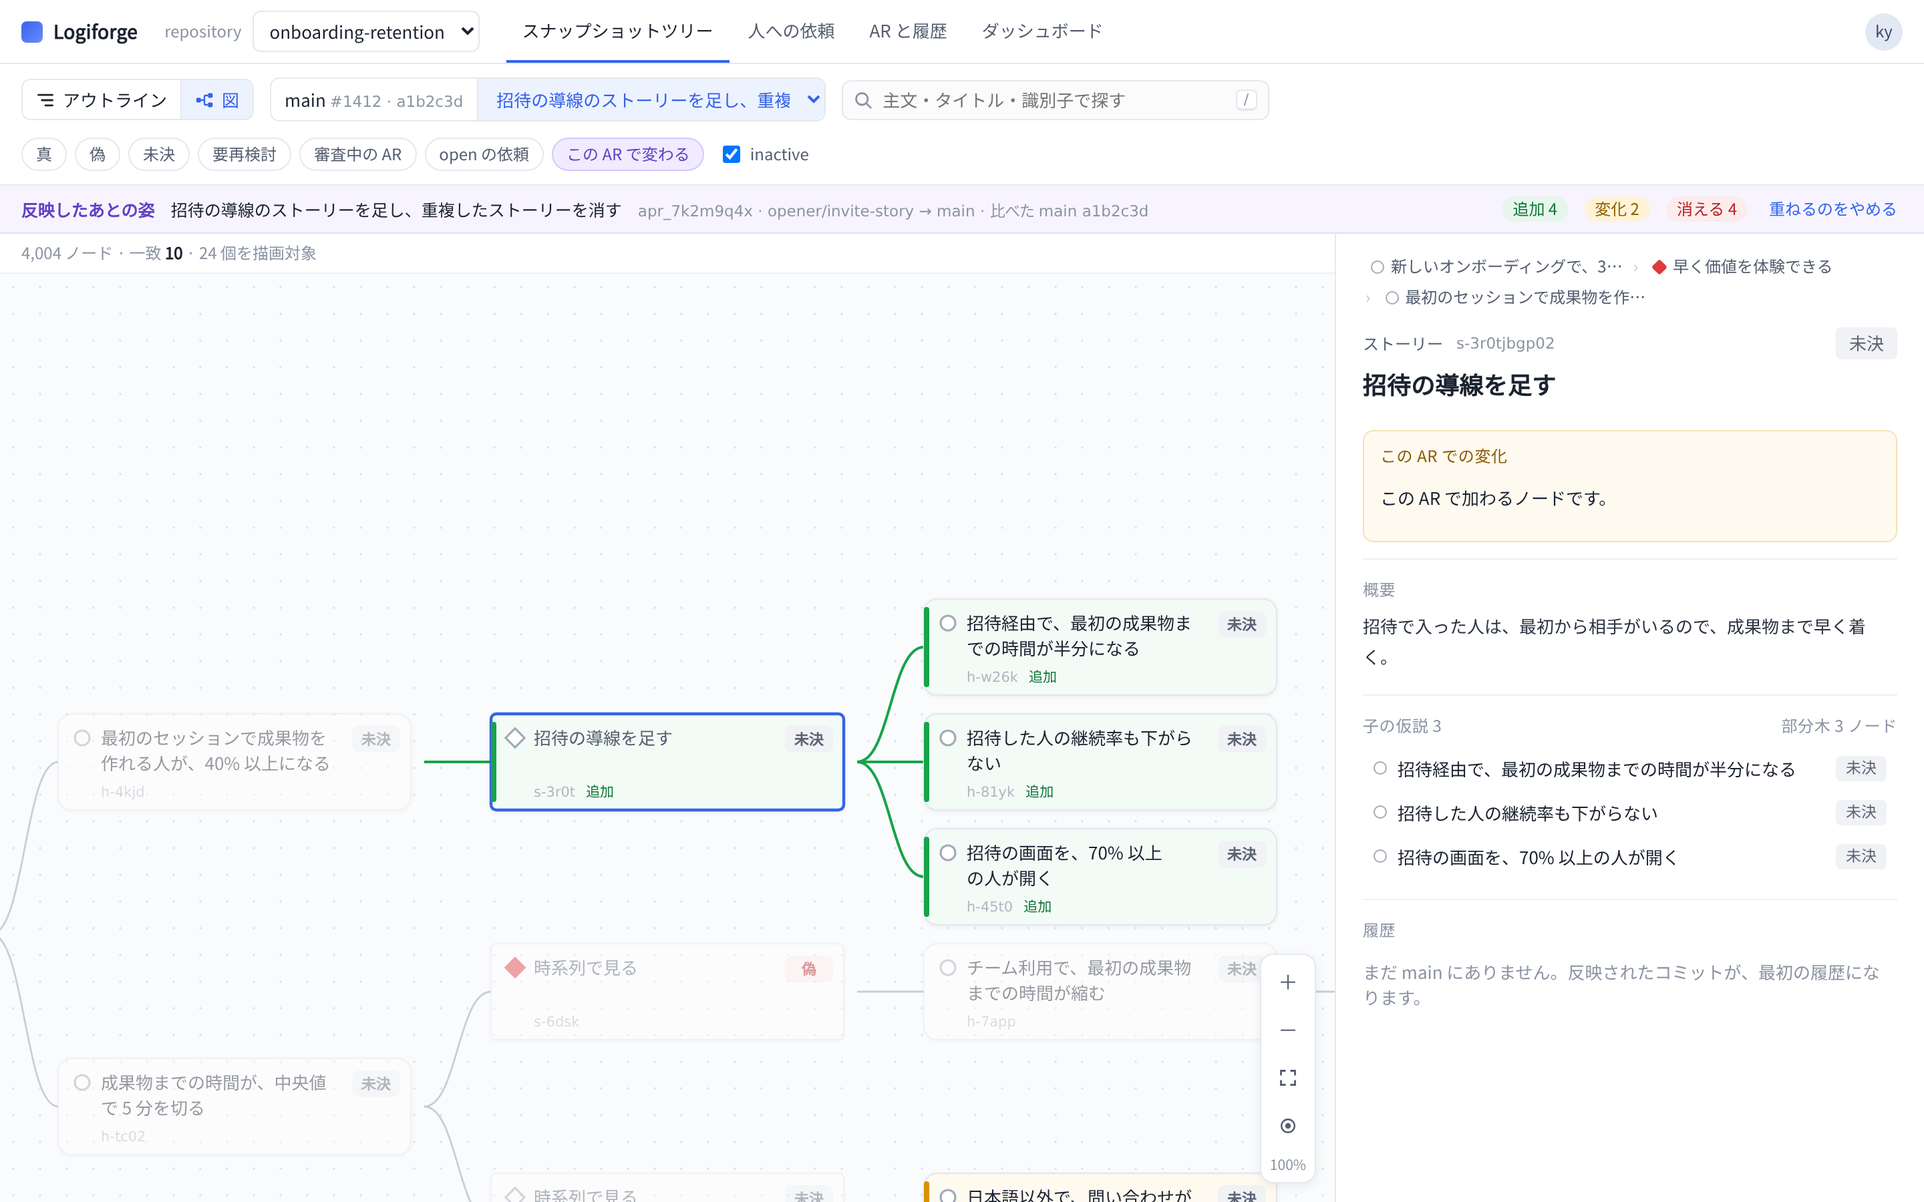
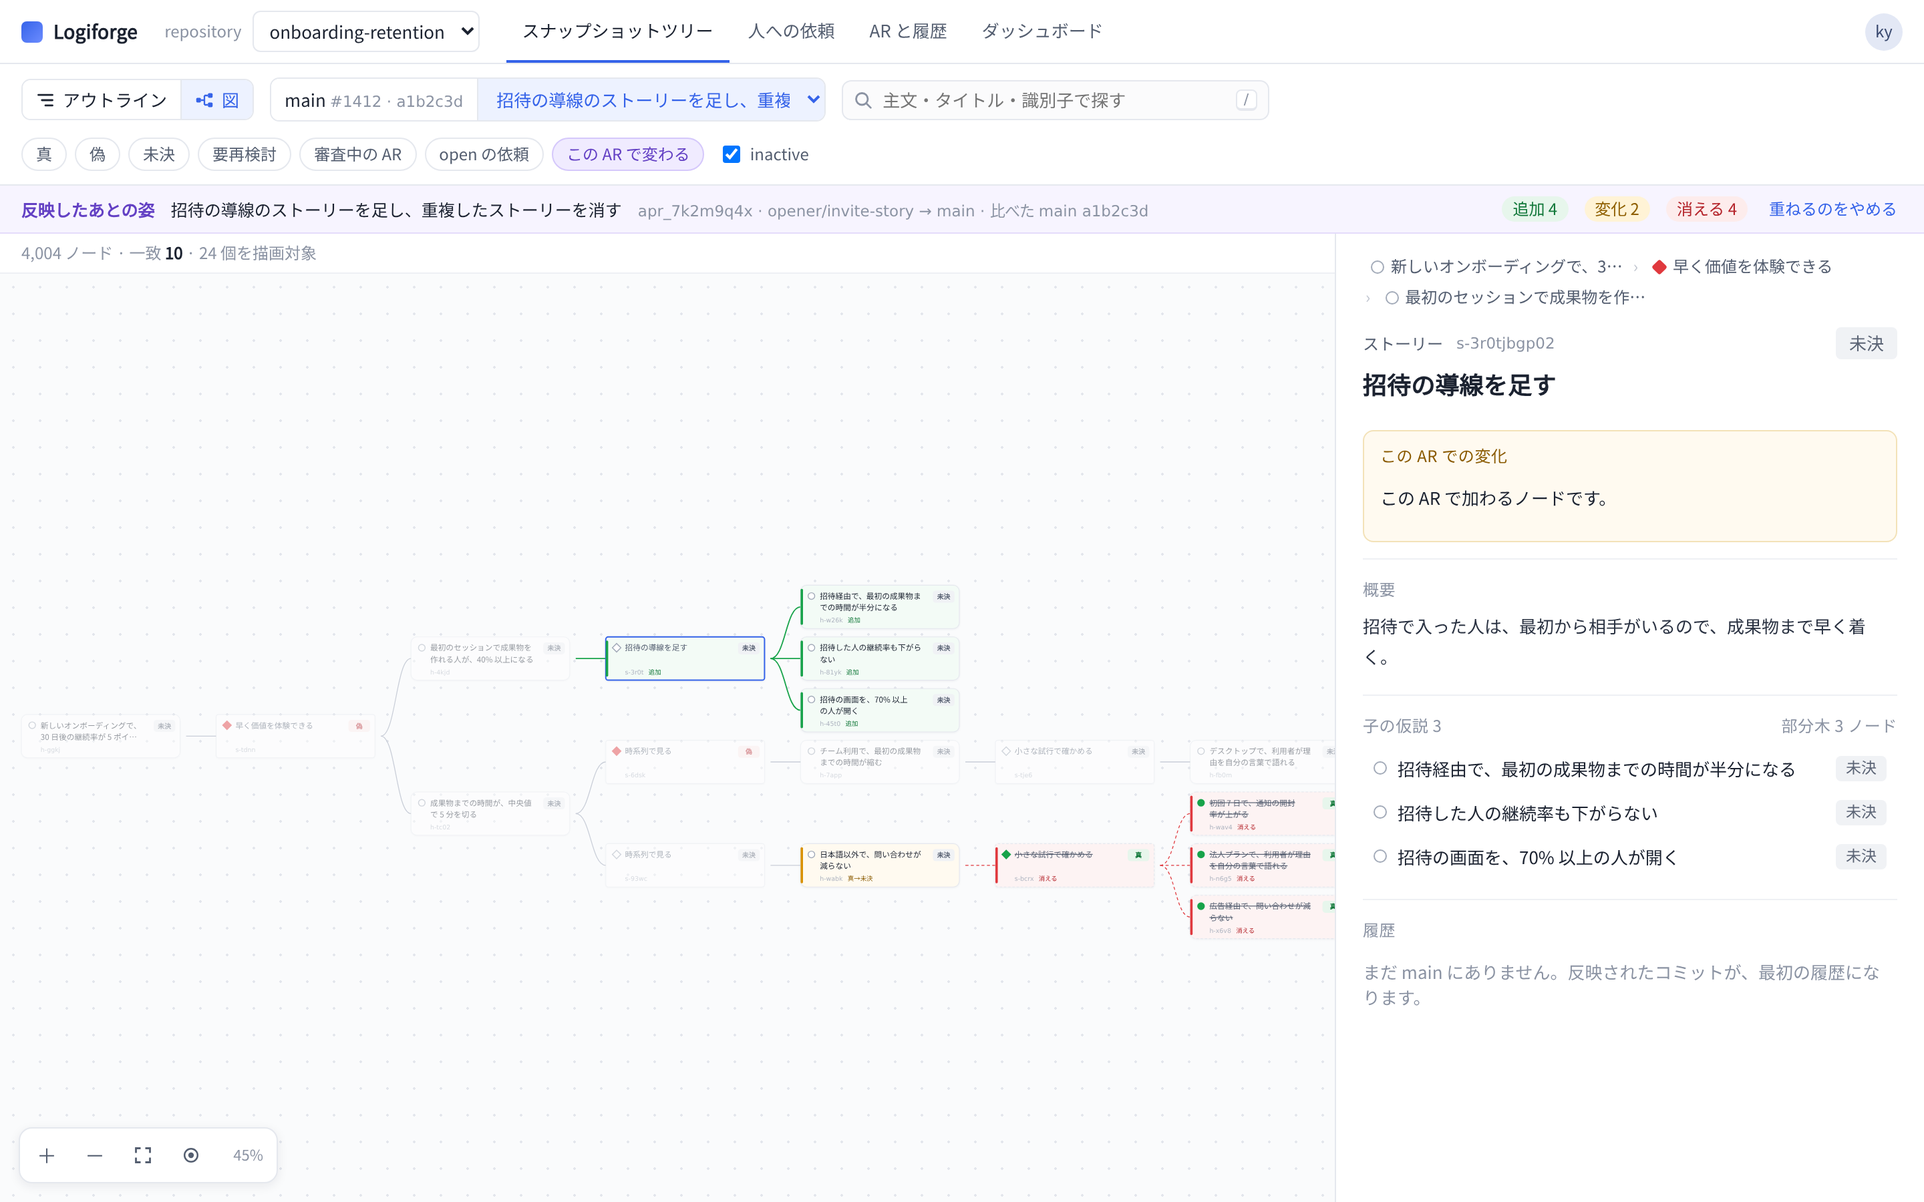
試作: 図の最初の表示を収める形に、道具を横 1 列に、ホイールはパン、図のキーボード、モバイルの絞り込みをシートに、safe-area と 100dvh、CPU 4 倍遅い計測

diff --git a/prototypes/webui-viewer/src/GraphView.tsx b/prototypes/webui-viewer/src/GraphView.tsx
@@ -15,6 +15,7 @@ interface Props {
   mobile: boolean;
   head: React.ReactNode;
   searching: boolean;
+  fitKey: string; // 検索と絞り込み。変わったら収め直す
 }
 
 interface Placed { id: string; x: number; y: number; parent: string | null; row: Row }
@@ -22,6 +23,7 @@ interface View { k: number; x: number; y: number }
 
 const MIN_K = 0.12;
 const MAX_K = 2.5;
+const LOD_K = 0.45; // これより小さいと文字を省く
 
 export function GraphView(p: Props) {
   const size = p.mobile ? { w: 212, h: 70, col: 260, row: 82 } : { w: 264, h: 72, col: 324, row: 86 };
@@ -59,7 +61,7 @@ export function GraphView(p: Props) {
   }, [p.rows, size.col, size.row, size.w, size.h]);
 
   const ref = useRef<HTMLDivElement>(null);
-  const [box, setBox] = useState({ w: 800, h: 600 });
+  const [box, setBox] = useState({ w: 0, h: 0 });
   const [view, setView] = useState<View>({ k: 1, x: 40, y: 40 });
   const viewRef = useRef(view);
   viewRef.current = view;
@@ -93,14 +95,41 @@ export function GraphView(p: Props) {
     animateTo({ k, x: box.w / 2 - k * (n.x + size.w / 2), y: box.h / 2 - k * (n.y + size.h / 2) });
   }, [layout, box, animateTo, size.w, size.h]);
 
-  const fit = useCallback(() => {
-    const k = Math.max(MIN_K, Math.min(1, (box.w - 48) / layout.width, (box.h - 48) / layout.height));
-    animateTo({ k, x: (box.w - k * layout.width) / 2, y: (box.h - k * layout.height) / 2 });
-  }, [box, layout, animateTo]);
+  // 根を左端に寄せ、開いている部分が収まるまで縮める（下限 lower）
+  const frame = useCallback((lower: number): View => {
+    const pad = 16;
+    const k = Math.max(lower, Math.min(1, (box.w - pad * 2) / layout.width, (box.h - pad * 2) / layout.height));
+    const root = p.rows.length ? layout.pos.get(p.rows[0].id) : undefined;
+    const y = k * layout.height <= box.h - pad * 2 ? (box.h - k * layout.height) / 2 : box.h / 2 - k * ((root?.y ?? 0) + size.h / 2);
+    return { k, x: pad, y };
+  }, [box, layout, p.rows, size.h]);
+  const fit = useCallback(() => animateTo(frame(MIN_K)), [animateTo, frame]);
+
+  // 最初の表示：収める（下限 45%）。選んだノードへのフォーカスは効かせない
+  const ready = useRef(false);
+  const prevSel = useRef<string | null>(null);
+  const quietUntil = useRef(0);
+  useEffect(() => {
+    if (ready.current || !p.rows.length || box.w < 50) return;
+    ready.current = true;
+    prevSel.current = p.selected;
+    setView(frame(LOD_K));
+  }, [box, p.rows, frame, p.selected]);
+
+  // 検索や絞り込みを変えたら、収め直す
+  const lastFitKey = useRef(p.fitKey);
+  useEffect(() => {
+    if (!ready.current || lastFitKey.current === p.fitKey) return;
+    lastFitKey.current = p.fitKey;
+    quietUntil.current = performance.now() + 400; // 続いて起きる「最初の一致を選ぶ」でフォーカスしない
+    animateTo(frame(LOD_K));
+  }, [p.fitKey, frame, animateTo]);
 
   // 選んだノードが画面の外にあれば、そこへ動かす（図の中で押したときは、もう見えているので動かない）
   useEffect(() => {
-    if (!p.selected) return;
+    if (!ready.current || prevSel.current === p.selected) return;
+    prevSel.current = p.selected;
+    if (!p.selected || performance.now() < quietUntil.current) return;
     const n = layout.pos.get(p.selected);
     if (!n) return;
     const v = viewRef.current;
@@ -108,16 +137,6 @@ export function GraphView(p: Props) {
     if (sx < 0 || sy < 0 || sx + v.k * size.w > box.w || sy + v.k * size.h > box.h) centerOn(p.selected, Math.max(v.k, 0.85));
     // eslint-disable-next-line react-hooks/exhaustive-deps
   }, [p.selected, layout]);
-
-  // 最初は根を左の真ん中に置く
-  const placedOnce = useRef(false);
-  useEffect(() => {
-    if (placedOnce.current || !p.rows.length || box.w < 50) return;
-    placedOnce.current = true;
-    const root = layout.pos.get(p.rows[0].id)!;
-    const k = Math.max(p.mobile ? 0.7 : 0.6, Math.min(1, (box.w - 48) / layout.width, (box.h - 48) / layout.height));
-    setView({ k, x: 24, y: box.h / 2 - k * (root.y + size.h / 2) });
-  }, [layout, box, p.rows, p.mobile, size.h]);
 
   // ズームとパン（ホイール、ドラッグ、2 本の指）
   const pointers = useRef(new Map<number, { x: number; y: number }>());
@@ -134,11 +153,14 @@ export function GraphView(p: Props) {
     const onWheel = (e: WheelEvent) => {
       e.preventDefault();
       const r = el.getBoundingClientRect();
-      if (e.ctrlKey || (!e.shiftKey && !e.deltaX)) {
-        zoomAt(viewRef.current.k * Math.exp(-e.deltaY * (e.ctrlKey ? 0.01 : 0.0015)), e.clientX - r.left, e.clientY - r.top);
+      // ホイールとトラックパッドの移動はパン。Ctrl＋ホイールと、トラックパッドのピンチ（ctrlKey が付く）はズーム
+      if (e.ctrlKey || e.metaKey) {
+        zoomAt(viewRef.current.k * Math.exp(-e.deltaY * 0.01), e.clientX - r.left, e.clientY - r.top);
       } else {
         const v = viewRef.current;
-        setView({ ...v, x: v.x - e.deltaX, y: v.y - e.deltaY });
+        const dx = e.shiftKey && !e.deltaX ? e.deltaY : e.deltaX;
+        const dy = e.shiftKey && !e.deltaX ? 0 : e.deltaY;
+        setView({ ...v, x: v.x - dx, y: v.y - dy });
       }
     };
     el.addEventListener('wheel', onWheel, { passive: false });
@@ -203,7 +225,22 @@ export function GraphView(p: Props) {
   }, [layout, x, y, k, box, size.w, size.h]);
 
   const click = (fn: () => void) => () => { if (!gesture.current.moved) fn(); };
-  const lod = k < 0.45; // 引いたときは、文字を省いて形と色だけにする
+
+  // キーボード：アウトラインと同じく、行の並び（深さ優先）で動く
+  const onKey = (e: React.KeyboardEvent) => {
+    const i = p.selected ? p.rows.findIndex((r) => r.id === p.selected) : -1;
+    if (i < 0) return;
+    const r = p.rows[i];
+    if (e.key === 'ArrowDown' && i < p.rows.length - 1) p.onSelect(p.rows[i + 1].id);
+    else if (e.key === 'ArrowUp' && i > 0) p.onSelect(p.rows[i - 1].id);
+    else if (e.key === 'ArrowRight' && r.hasChildren && !r.open) p.onToggle(r.id);
+    else if (e.key === 'ArrowLeft') {
+      if (r.open && r.hasChildren && !p.filtered) p.onToggle(r.id);
+      else for (let j = i - 1; j >= 0; j--) if (p.rows[j].depth < r.depth) { p.onSelect(p.rows[j].id); break; }
+    } else return;
+    e.preventDefault();
+  };
+  const lod = k < LOD_K - 0.001; // 引いたときは、文字を省いて形と色だけにする
 
   return (
     <section className="graph-pane">
@@ -211,6 +248,8 @@ export function GraphView(p: Props) {
       <div
         className="graph"
         ref={ref}
+        tabIndex={0}
+        onKeyDown={onKey}
         onPointerDown={onPointerDown}
         onPointerMove={onPointerMove}
         onPointerUp={onPointerUp}
@@ -239,8 +278,8 @@ export function GraphView(p: Props) {
           </g>
         </svg>
         <div className="graph-ctl" onPointerDown={(e) => e.stopPropagation()}>
-          <button title="拡大" onClick={() => zoomAt(k * 1.25, box.w / 2, box.h / 2)}>＋</button>
-          <button title="縮小" onClick={() => zoomAt(k / 1.25, box.w / 2, box.h / 2)}>－</button>
+          {!p.mobile && <button title="拡大" onClick={() => zoomAt(k * 1.25, box.w / 2, box.h / 2)}>＋</button>}
+          {!p.mobile && <button title="縮小" onClick={() => zoomAt(k / 1.25, box.w / 2, box.h / 2)}>－</button>}
           <button title="全体を表示" onClick={fit}>
             <svg viewBox="0 0 16 16" width="14" height="14"><path d="M2 6V2h4M10 2h4v4M14 10v4h-4M6 14H2v-4" fill="none" stroke="currentColor" strokeWidth="1.6" /></svg>
           </button>

diff --git a/prototypes/webui-viewer/src/styles.css b/prototypes/webui-viewer/src/styles.css
@@ -32,7 +32,7 @@ button, select, input { font: inherit; color: inherit; }
 .spacer { flex: 1; }
 .loading { padding: 40px; color: var(--dim); }
 
-.app { display: flex; flex-direction: column; height: 100%; }
+.app { display: flex; flex-direction: column; height: 100%; height: 100dvh; }
 
 /* 上の帯 */
 .topbar { height: 48px; display: flex; align-items: center; gap: 20px; padding: 0 16px; background: var(--panel); border-bottom: 1px solid var(--line); }
@@ -248,11 +248,11 @@ mark { background: #ffe58a; color: inherit; border-radius: 2px; padding: 0 1px; 
 .toggle path { stroke: var(--sub); stroke-width: 1.6; stroke-linecap: round; }
 .toggle:hover circle { stroke: var(--accent); }
 .toggle .hit { fill: transparent; stroke: none; }
-.graph-ctl { position: absolute; right: 14px; bottom: 14px; display: flex; flex-direction: column; align-items: center; gap: 4px; background: var(--panel); border: 1px solid var(--line); border-radius: 10px; padding: 4px; box-shadow: 0 2px 8px rgba(20, 30, 50, .08); }
+.graph-ctl { position: absolute; left: 14px; bottom: 14px; display: flex; flex-direction: row; align-items: center; gap: 4px; background: var(--panel); border: 1px solid var(--line); border-radius: 10px; padding: 4px; box-shadow: 0 2px 8px rgba(20, 30, 50, .08); }
 .graph-ctl button { width: 32px; height: 32px; border: 0; background: none; border-radius: 7px; cursor: pointer; display: grid; place-items: center; color: var(--sub); font-size: 15px; }
 .graph-ctl button:hover { background: #f1f3f7; color: var(--text); }
 .graph-ctl button:disabled { opacity: .35; }
-.graph-ctl .zoom { font-size: 10.5px; color: var(--dim); padding: 2px 0 1px; font-variant-numeric: tabular-nums; }
+.graph-ctl .zoom { font-size: 11px; color: var(--dim); padding: 0 6px 0 2px; font-variant-numeric: tabular-nums; min-width: 40px; text-align: right; }
 
 /* モバイル（幅 767px 以下） */
 .bottom-nav { display: none; }
@@ -262,7 +262,11 @@ mark { background: #ffe58a; color: inherit; border-radius: 2px; padding: 0 1px; 
   .brand { font-size: 0; gap: 0; }
   .repo-label, .tabs { display: none; }
   .repo select { max-width: 200px; }
-  .toolbar { gap: 8px; padding: 8px 12px; }
+  .toolbar { display: grid; grid-template-columns: auto minmax(0, 1fr) auto; grid-template-areas: "mode view view" "search search filter"; gap: 8px; padding: 8px 12px; }
+  .toolbar .seg.mode { grid-area: mode; }
+  .toolbar .view { grid-area: view; min-width: 0; }
+  .toolbar .search { grid-area: search; }
+  .toolbar .filter-btn { grid-area: filter; }
   .toolbar .seg.mode { order: 1; }
   .toolbar .view { order: 2; flex: 1; min-width: 0; }
   .toolbar .view .seg { width: 100%; }
@@ -271,16 +275,22 @@ mark { background: #ffe58a; color: inherit; border-radius: 2px; padding: 0 1px; 
   .toolbar .view .seg select { flex: 1; min-width: 0; max-width: none; }
   .seg > * { padding: 7px 10px; }
   .seg.mode button { padding: 7px 10px; }
-  .search { order: 3; width: 100%; height: 40px; }
+  .search { order: 3; flex: 1; min-width: 0; width: auto; height: 40px; }
   .search input { font-size: 16px; }
   .search kbd { display: none; }
-  .chips { order: 4; flex-wrap: nowrap; overflow-x: auto; width: calc(100% + 24px); margin: 0 -12px; padding: 0 12px 2px; scrollbar-width: none; }
-  .chip { flex: none; padding: 6px 12px; font-size: 13px; }
+  .filter-btn { order: 4; display: flex; align-items: center; gap: 6px; height: 40px; padding: 0 12px; border: 1px solid var(--line); border-radius: 7px; background: var(--panel); color: var(--sub); white-space: nowrap; }
+  .filter-btn.on { color: var(--accent); border-color: #b9c8f5; background: var(--sel); font-weight: 600; }
+  .chips.filter-sheet { position: fixed; left: 0; right: 0; bottom: 0; z-index: 30; background: var(--panel); border-radius: 16px 16px 0 0; box-shadow: 0 -8px 30px rgba(20, 30, 50, .18);
+    padding: 12px 16px calc(20px + env(safe-area-inset-bottom)); gap: 8px; flex-wrap: wrap; animation: up .2s ease-out; }
+  .fs-head { width: 100%; display: flex; justify-content: space-between; align-items: center; padding: 2px 0 6px; }
+  .fs-head .link { font-size: 14px; padding: 8px; }
+  .chip { flex: none; padding: 9px 14px; font-size: 14px; }
+  .check { padding: 9px 4px; font-size: 14px; }
   .check { flex: none; }
   .banner { flex-wrap: wrap; gap: 6px 10px; padding: 8px 12px; }
   .banner .mono { width: 100%; order: 5; }
   .banner .spacer { display: none; }
-  .body { grid-template-columns: 1fr; padding-bottom: 60px; }
+  .body { grid-template-columns: 1fr; padding-bottom: calc(60px + env(safe-area-inset-bottom)); }
   .tree-pane, .graph-pane { border-right: 0; }
   .legend { display: none; }
   .tree-head { padding: 6px 12px; }
@@ -288,18 +298,18 @@ mark { background: #ffe58a; color: inherit; border-radius: 2px; padding: 0 1px; 
   .row .id, .row .sub { display: none; }
   .chev { width: 24px; height: 24px; }
   .val { min-width: 34px; }
-  .graph-ctl { bottom: 76px; right: 12px; }
+  .graph-ctl { bottom: 12px; left: 12px; }
   .graph-ctl button { width: 40px; height: 40px; }
 
   .detail.sheet { position: fixed; left: 0; right: 0; bottom: 0; height: 62vh; z-index: 20; border-radius: 16px 16px 0 0;
-    box-shadow: 0 -8px 30px rgba(20, 30, 50, .18); padding: 0 16px 80px; animation: up .2s ease-out; }
+    box-shadow: 0 -8px 30px rgba(20, 30, 50, .18); padding: 0 16px calc(80px + env(safe-area-inset-bottom)); animation: up .2s ease-out; }
   .sheet-bar { position: sticky; top: 0; background: var(--panel); display: flex; justify-content: center; padding: 8px 0 6px; margin: 0 -16px 4px; z-index: 1; }
   .grab { width: 40px; height: 5px; border-radius: 3px; background: #d5d9e1; margin-top: 2px; }
   .sheet-close { position: absolute; right: 8px; top: 4px; width: 40px; height: 40px; border: 0; background: none; color: var(--sub); display: grid; place-items: center; }
   .d-title { font-size: 17px; }
   .sheet .crumbs { padding-right: 40px; }
 
-  .bottom-nav { display: flex; position: fixed; left: 0; right: 0; bottom: 0; height: 60px; background: var(--panel); border-top: 1px solid var(--line); z-index: 10; }
+  .bottom-nav { display: flex; position: fixed; left: 0; right: 0; bottom: 0; height: calc(60px + env(safe-area-inset-bottom)); padding-bottom: env(safe-area-inset-bottom); background: var(--panel); border-top: 1px solid var(--line); z-index: 10; }
   .bottom-nav a { flex: 1; display: flex; flex-direction: column; align-items: center; justify-content: center; gap: 3px; font-size: 11px; color: var(--dim); }
   .bottom-nav a.on { color: var(--accent); font-weight: 600; }
   .bottom-nav svg { stroke: currentColor; stroke-width: 1.6; fill: none; }

diff --git a/prototypes/webui-viewer/src/App.tsx b/prototypes/webui-viewer/src/App.tsx
@@ -51,13 +51,18 @@ export function App() {
   const [view, setView] = useState<'outline' | 'graph'>(params.get('view') === 'graph' ? 'graph' : 'outline');
   const mobile = useMobile();
   const [sheet, setSheet] = useState(params.get('sheet') === '1');
+  const [filterSheet, setFilterSheet] = useState(params.get('fsheet') === '1');
   // 利用者が選んだとき（モバイルでは詳細のボトムシートを開く）
   const pick = useCallback((id: string) => { setSelected(id); if (matchMedia('(max-width: 767px)').matches) setSheet(true); }, []);
 
   useEffect(() => {
     (async () => {
+      const t0 = performance.now();
       const r = await listNodes(N);
+      const t1 = performance.now();
       const ix = buildIndex(r.nodes);
+      const lf = (window as unknown as { __lf: Record<string, number> }).__lf;
+      lf.load = t1 - t0; lf.index = performance.now() - t1;
       const depthOpen = Number(params.get('open') ?? 2);
       const open = new Set(r.nodes.filter((n) => (ix.depth.get(n.id) ?? 0) < depthOpen).map((n) => n.id));
       setMain({ ix, commit: r.commit, number: r.number });
@@ -229,7 +234,15 @@ export function App() {
             <kbd>/</kbd>
           )}
         </div>
-        <div className="chips">
+        {mobile && (
+          <button className={`filter-btn ${filters.size || !showInactive ? 'on' : ''}`} onClick={() => setFilterSheet(true)}>
+            <svg viewBox="0 0 16 16" width="16" height="16" aria-hidden><path d="M2 4h12M4.5 8h7M7 12h2" stroke="currentColor" strokeWidth="1.7" strokeLinecap="round" /></svg>
+            絞り込み{filters.size ? ` ${filters.size}` : ''}
+          </button>
+        )}
+        {(!mobile || filterSheet) && (
+        <div className={`chips ${mobile ? 'filter-sheet' : ''}`}>
+          {mobile && <div className="fs-head"><b>絞り込み</b><button className="link" onClick={() => setFilterSheet(false)}>閉じる</button></div>}
           {FILTERS.filter((f) => !f.overlayOnly || overlay.state === 'ok').map((f) => (
             <button key={f.key} className={`chip chip-${f.key} ${filters.has(f.key) ? 'on' : ''}`} onClick={() => toggleFilter(f.key)}>
               {f.label}
@@ -239,6 +252,7 @@ export function App() {
             <input type="checkbox" checked={showInactive} onChange={(e) => setShowInactive(e.target.checked)} /> inactive
           </label>
         </div>
+        )}
       </div>
 
       {overlay.state === 'ok' && (
@@ -285,6 +299,7 @@ export function App() {
               filtered={include !== null}
               mobile={mobile}
               searching={query.trim() !== ''}
+              fitKey={`${query.trim()}|${[...filters].sort().join(',')}|${showInactive}`}
               head={
                 <div className="tree-head">
                   <span className="dim">

diff --git a/prototypes/webui-viewer/src/TreePane.tsx b/prototypes/webui-viewer/src/TreePane.tsx
@@ -140,10 +140,10 @@ const TreeRow = memo(function TreeRow({ top, row, ix, selected, match, dimmed, q
         {Array.from({ length: row.depth }, (_, i) => <span key={i} className="guide" style={{ left: i * indent + indent / 2 - 1 }} />)}
       </span>
       <span
-        className={`chev ${row.hasChildren ? '' : 'none'} ${row.open ? 'open' : ''}`}
+        className={`chev ${row.hasChildren && !filtered ? '' : 'none'} ${row.open ? 'open' : ''}`}
         onClick={(e) => { e.stopPropagation(); if (row.hasChildren && !filtered) onToggle(n.id); }}
       >
-        {row.hasChildren && <svg viewBox="0 0 10 10" width="10" height="10"><path d="M3 2l4 3-4 3" fill="none" stroke="currentColor" strokeWidth="1.5" strokeLinecap="round" strokeLinejoin="round" /></svg>}
+        {row.hasChildren && !filtered && <svg viewBox="0 0 10 10" width="10" height="10"><path d="M3 2l4 3-4 3" fill="none" stroke="currentColor" strokeWidth="1.5" strokeLinecap="round" strokeLinejoin="round" /></svg>}
       </span>
       <i className={`glyph ${isH ? 'h' : 's'} ${vc}`} />
       <span className="text">

diff --git a/prototypes/webui-viewer/src/api.ts b/prototypes/webui-viewer/src/api.ts
@@ -29,7 +29,12 @@ export async function listNodes(n: number, applyRequest?: ApplyRequestSummary): 
     return r.json();
   }
   const r = await fetch(`${base(n)}/main.json`);
-  return r.json();
+  // 計測のため、受け取りとパースを分ける
+  const text = await r.text();
+  const t = performance.now();
+  const body = JSON.parse(text);
+  (window as unknown as { __lf: Record<string, number> }).__lf = { parse: performance.now() - t, bytes: text.length };
+  return body;
 }
 
 export async function listApplyRequests(n: number): Promise<ApplyRequestSummary[]> {

diff --git a/prototypes/webui-viewer/index.html b/prototypes/webui-viewer/index.html
@@ -2,7 +2,7 @@
 <html lang="ja">
   <head>
     <meta charset="UTF-8" />
-    <meta name="viewport" content="width=device-width, initial-scale=1.0" />
+    <meta name="viewport" content="width=device-width, initial-scale=1.0, viewport-fit=cover" />
     <title>Logiforge — スナップショットツリー</title>
   </head>
   <body>

diff --git a/prototypes/webui-viewer/README.md b/prototypes/webui-viewer/README.md
@@ -22,6 +22,7 @@ URL の引数で、開く状態を決められる。
 | `open` | 開いておく段数 |
 | `view` | `graph` で図、なければアウトライン |
 | `sheet` | `1` で、モバイルの詳細のボトムシートを開いておく |
+| `fsheet` | `1` で、モバイルの絞り込みのシートを開いておく |
 
 ## スクリーンショット
 
